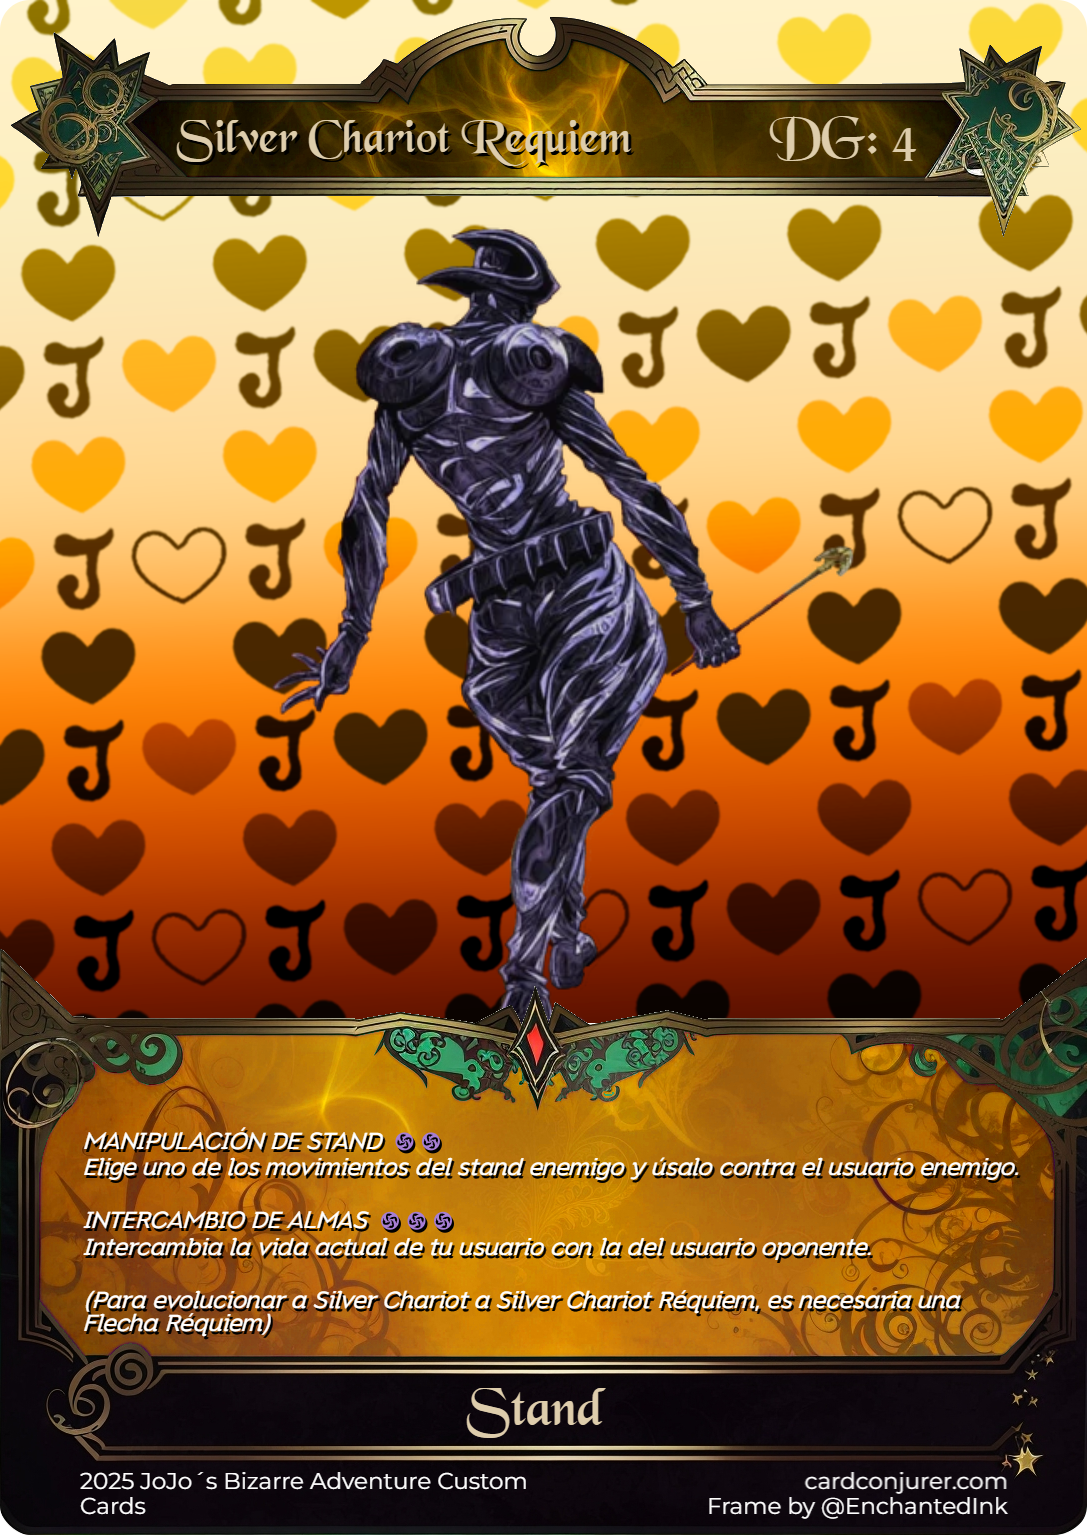
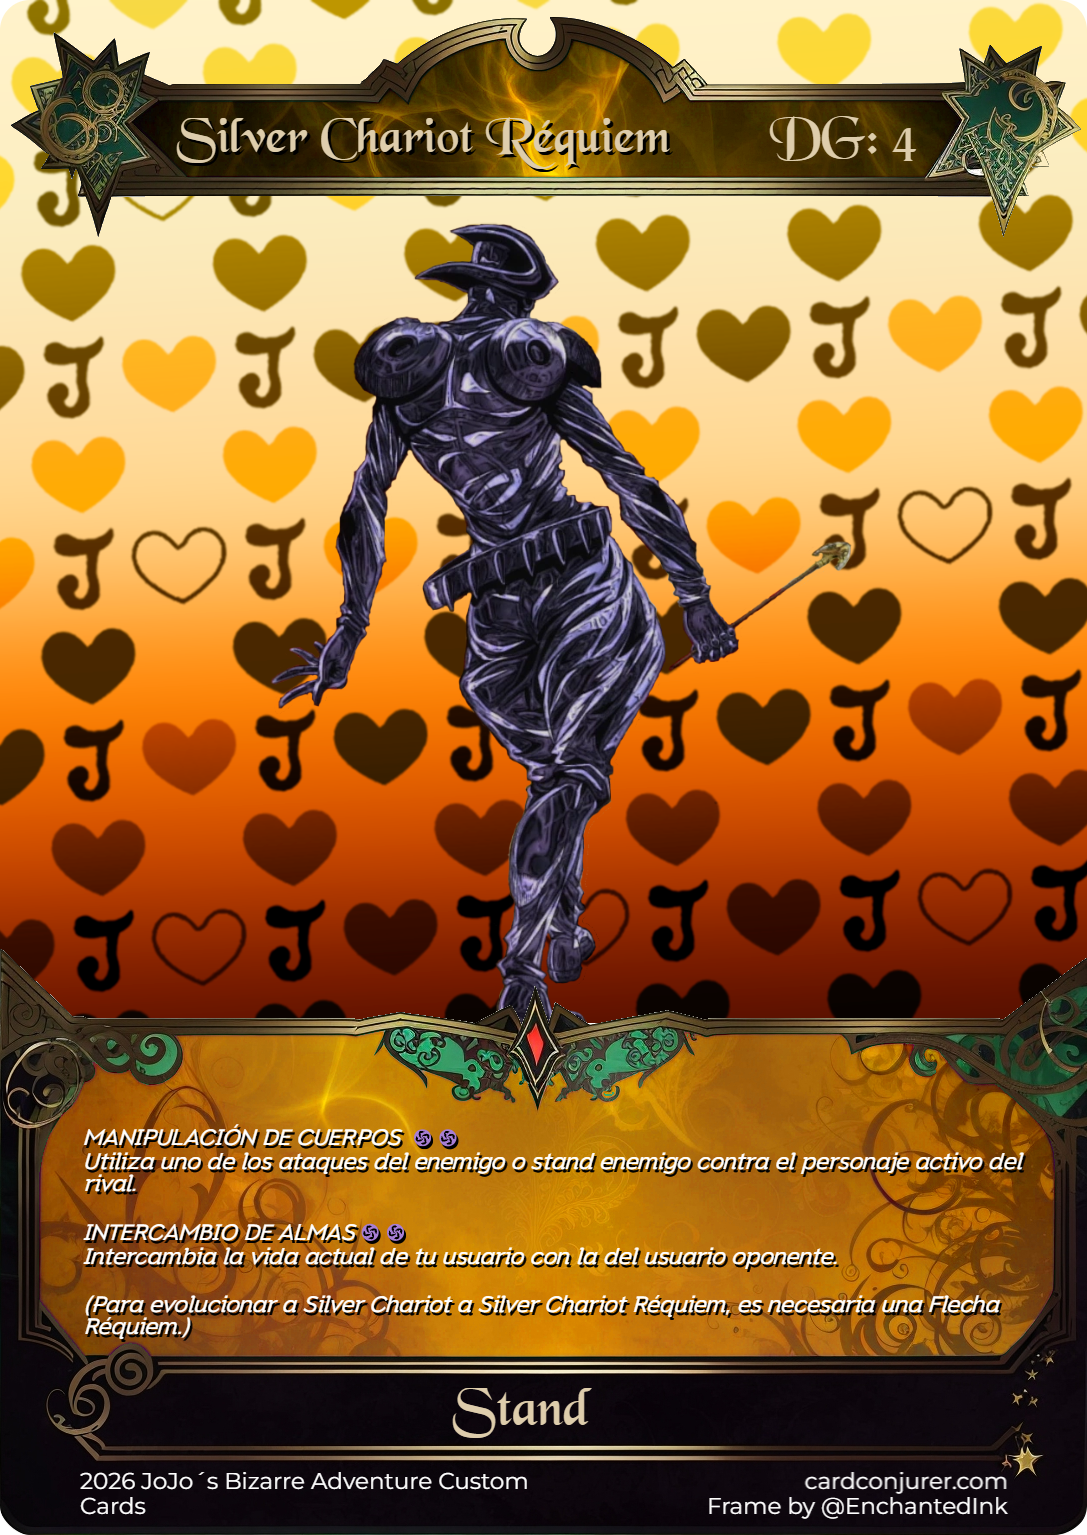
feat(card): rework Silver Chariot Requiem (Manipulación de Cuerpos, 2-Psychic Intercambio de Almas, new artwork)

diff --git a/src/engine/combat/combatResolver.ts b/src/engine/combat/combatResolver.ts
@@ -331,29 +331,27 @@ export function executeAttack(
     if (bonusInfo.consumedDireAfterimage) attacker.direAfterimageBonus = false;
   };
 
-  // Special non-damaging copy attack (Silver Chariot Requiem — Manipulación de Stand)
+  // Special non-damaging copy attack (Silver Chariot Réquiem — Manipulación de Cuerpos)
   if (attack.specialEffects?.some((e) => e.kind === 'COPY_ENEMY_STAND_ATTACK')) {
-    if (defender.attachedStand) {
-      const enemyStandAttacks = getEffectiveStandProfile(defender.attachedStand).attacks.filter(
-        (a) => !a.specialEffects?.some((se) => se.kind === 'COPY_ENEMY_STAND_ATTACK'),
-      );
-      if (enemyStandAttacks.length > 0) {
-        enqueuePrompt(state, {
-          kind: 'CHOOSE_ENEMY_STAND_ATTACK',
-          playerId,
-          targetPlayerId: opponentId,
-          availableAttackIds: enemyStandAttacks.map((a) => a.id),
-          sourceLabel: 'Manipulación de Stand',
-        });
-        state.promptContinuation = 'FINISH_COMBAT_ACTION';
-        return;
-      }
+    const copyableEnemyAttacks = getAvailableAttacks(defender)
+      .map((a) => a.attack)
+      .filter((a) => !a.specialEffects?.some((se) => se.kind === 'COPY_ENEMY_STAND_ATTACK'));
+    if (copyableEnemyAttacks.length > 0) {
+      enqueuePrompt(state, {
+        kind: 'CHOOSE_ENEMY_STAND_ATTACK',
+        playerId,
+        targetPlayerId: opponentId,
+        availableAttackIds: copyableEnemyAttacks.map((a) => a.id),
+        sourceLabel: 'Manipulación de Cuerpos',
+      });
+      state.promptContinuation = 'FINISH_COMBAT_ACTION';
+      return;
     }
     pushEvent(state, eventsOut, {
       type: 'ABILITY_TRIGGERED',
       playerId,
-      abilityName: 'Manipulación de Stand',
-      message: `${defenderProfile.name} no tiene un Stand con ataques copiables.`,
+      abilityName: 'Manipulación de Cuerpos',
+      message: `${defenderProfile.name} no tiene ataques copiables.`,
     });
     advanceAfterCombatAction(state, eventsOut, rng);
     return;
@@ -1401,12 +1399,12 @@ export function resolvePendingPrompt(
     }
     case 'CHOOSE_ENEMY_STAND_ATTACK': {
       const r = response as Extract<PromptResponsePayload, { kind: 'CHOOSE_ENEMY_STAND_ATTACK' }>;
-      const enemyStand = state.players[prompt.targetPlayerId].active?.attachedStand;
-      if (enemyStand) {
-        const atk = getEffectiveStandProfile(enemyStand).attacks.find((a) => a.id === r.attackId);
-        if (atk) {
-          executeAttack(state, eventsOut, playerId, atk.id, rng, {
-            attack: atk,
+      const enemyActive = state.players[prompt.targetPlayerId].active;
+      if (enemyActive) {
+        const entry = getAvailableAttacks(enemyActive).find((a) => a.attack.id === r.attackId);
+        if (entry) {
+          executeAttack(state, eventsOut, playerId, entry.attack.id, rng, {
+            attack: entry.attack,
             source: 'STAND',
           });
           return;

diff --git a/src/tests/engine/edgeCasesAndCatalog.test.ts b/src/tests/engine/edgeCasesAndCatalog.test.ts
@@ -69,7 +69,8 @@ describe('Asset Integrity, Additional Official Card Abilities & Multi-Match AI S
     expect(state.players.P1.active!.statuses.stunned).toBe(false);
   });
 
-  it('resolves Silver Chariot Requiem Manipulación de Stand copying an enemy Stand attack', () => {
+  it('resolves Silver Chariot Réquiem Manipulación de Cuerpos copying enemy Stand or non-Stand attacks & 2-Psychic Intercambio de Almas', () => {
+    // 1. Copies enemy Stand attack (Crazy Diamond Dorara)
     let state = buildControlledBattleState({
       p1ActiveId: 'char-jean-pierre-polnareff',
       p1ActiveStandId: 'stand-silver-chariot',
@@ -85,7 +86,7 @@ describe('Asset Integrity, Additional Official Card Abilities & Multi-Match AI S
     state = mustDispatch(state, {
       type: 'USE_ATTACK',
       playerId: 'P1',
-      attackId: 'atk-manipulacion-de-stand',
+      attackId: 'atk-manipulacion-de-cuerpos',
     });
 
     expect(state.pendingPrompt?.kind).toBe('CHOOSE_ENEMY_STAND_ATTACK');
@@ -96,6 +97,30 @@ describe('Asset Integrity, Additional Official Card Abilities & Multi-Match AI S
       response: { kind: 'CHOOSE_ENEMY_STAND_ATTACK', attackId: 'atk-dorara' },
     });
     expect(state.players.P2.active!.currentHp).toBe(50);
+
+    // 2. Also copies attacks from a non-Stand character (Jonathan Joestar) & can use Intercambio de Almas for 2 PSYCHIC!
+    let vsNonStand = buildControlledBattleState({
+      p1ActiveId: 'char-jean-pierre-polnareff',
+      p1ActiveStandId: 'stand-silver-chariot',
+      p1ActiveEnergies: ['PSYCHIC', 'PSYCHIC'],
+      p1Hand: ['evo-silver-chariot-requiem', 'item-flecha-requiem'],
+      p2ActiveId: 'char-jonathan-joestar', // 130 HP, no Stand
+      phase: 'PREPARATION',
+    });
+    vsNonStand = mustDispatch(vsNonStand, { type: 'EVOLVE_CARD', playerId: 'P1', handIndex: 0 });
+    vsNonStand = mustDispatch(vsNonStand, { type: 'ENTER_COMBAT_PHASE', playerId: 'P1' });
+    vsNonStand = mustDispatch(vsNonStand, {
+      type: 'USE_ATTACK',
+      playerId: 'P1',
+      attackId: 'atk-manipulacion-de-cuerpos',
+    });
+    expect(vsNonStand.pendingPrompt?.kind).toBe('CHOOSE_ENEMY_STAND_ATTACK');
+    vsNonStand = mustDispatch(vsNonStand, {
+      type: 'RESPOND_PROMPT',
+      playerId: 'P1',
+      response: { kind: 'CHOOSE_ENEMY_STAND_ATTACK', attackId: 'atk-sendo-hamon-overdrive' },
+    });
+    expect(vsNonStand.players.P2.active!.currentHp).toBe(60); // 130 - 70
   });
 
   it('resolves Jonathan Adiós Erina, Caesar Último Hamon, Joseph Nigerundayo, Santana Absorción & Prep draw abilities', () => {

diff --git a/src/engine/ai/tacticalAi.ts b/src/engine/ai/tacticalAi.ts
@@ -12,7 +12,6 @@ import {
   getAttackNominalMaxDamage,
   getAvailableAttacks,
   getEffectiveCharacterProfile,
-  getEffectiveStandProfile,
   getMaxEnergyAttachmentsThisTurn,
   hasElementalStatusImmunity,
 } from '../helpers/cardStats';
@@ -80,7 +79,12 @@ function expectedAttackScore(
     score += enemyActive.currentHp > selfActive.currentHp + 20 ? 120 : -20;
   }
   if (attack.specialEffects?.some((e) => e.kind === 'COPY_ENEMY_STAND_ATTACK')) {
-    score += enemyActive.attachedStand ? 75 : -30;
+    const copyable = getAvailableAttacks(enemyActive).filter(
+      (a) => !a.attack.specialEffects?.some((se) => se.kind === 'COPY_ENEMY_STAND_ATTACK'),
+    );
+    const bestCopiedDmg =
+      copyable.length > 0 ? Math.max(...copyable.map((a) => getAttackNominalMaxDamage(a.attack))) : 0;
+    score += copyable.length > 0 ? Math.max(65, bestCopiedDmg) : -30;
   }
   if (attack.specialEffects?.some((e) => e.kind === 'HEAL_SELF')) {
     const maxHp = computeEffectiveMaxHp(state, playerId, selfActive);
@@ -368,12 +372,12 @@ function buildPromptResponse(
       return { kind: 'CHOOSE_ENEMY_BENCH_TARGET', benchInstanceId: sorted[0]!.instanceId };
     }
     case 'CHOOSE_ENEMY_STAND_ATTACK': {
-      const enemyStand = state.players[prompt.targetPlayerId].active?.attachedStand;
+      const enemyActive = state.players[prompt.targetPlayerId].active;
       let bestId = prompt.availableAttackIds[0]!;
-      if (enemyStand) {
-        const attacks = getEffectiveStandProfile(enemyStand).attacks.filter((a) =>
-          prompt.availableAttackIds.includes(a.id),
-        );
+      if (enemyActive) {
+        const attacks = getAvailableAttacks(enemyActive)
+          .map((a) => a.attack)
+          .filter((a) => prompt.availableAttackIds.includes(a.id));
         attacks.sort((a, b) => getAttackNominalMaxDamage(b) - getAttackNominalMaxDamage(a));
         if (attacks[0]) bestId = attacks[0].id;
       }

diff --git a/src/data/cards/evolutions.ts b/src/data/cards/evolutions.ts
@@ -72,7 +72,7 @@ export const EVOLUTION_CARDS: EvolutionCard[] = [
   },
   {
     id: 'evo-silver-chariot-requiem',
-    name: 'Silver Chariot Requiem',
+    name: 'Silver Chariot Réquiem',
     type: 'EVOLUTION',
     part: 5,
     imageId: 'silver-chariot-requiem',
@@ -88,22 +88,22 @@ export const EVOLUTION_CARDS: EvolutionCard[] = [
       'Para evolucionar a Silver Chariot a Silver Chariot Réquiem, es necesaria una Flecha Réquiem.',
     attacks: [
       {
-        id: 'atk-manipulacion-de-stand',
-        name: 'Manipulación de Stand',
+        id: 'atk-manipulacion-de-cuerpos',
+        name: 'Manipulación de Cuerpos',
         energyCost: ['PSYCHIC', 'PSYCHIC'],
         baseDamage: 0,
         damageLabel: 'COPIA',
-        effectText: 'Elige uno de los movimientos del Stand enemigo y úsalo contra el usuario enemigo.',
+        effectText:
+          'Utiliza uno de los ataques del enemigo o stand enemigo contra el personaje activo del rival.',
         specialEffects: [{ kind: 'COPY_ENEMY_STAND_ATTACK' }],
       },
       {
         id: 'atk-intercambio-de-almas',
         name: 'Intercambio de Almas',
-        energyCost: ['PSYCHIC', 'PSYCHIC', 'PSYCHIC'],
+        energyCost: ['PSYCHIC', 'PSYCHIC'],
         baseDamage: 0,
         damageLabel: 'SWAP',
-        effectText:
-          'Intercambia la vida actual de tu usuario con la del usuario oponente (puede superar el HP máximo).',
+        effectText: 'Intercambia la vida actual de tu usuario con la del usuario oponente.',
         specialEffects: [{ kind: 'SOUL_SWAP_HP' }],
       },
     ],

diff --git a/src/ui/components/battlefield/PromptOverlay.tsx b/src/ui/components/battlefield/PromptOverlay.tsx
@@ -5,8 +5,8 @@ import { getCardById } from '../../../data/cardRegistry';
 import { CARD_BACK_PATTERN_URL } from '../../../services/assetResolver';
 import {
   computeEffectiveMaxHp,
+  getAvailableAttacks,
   getEffectiveCharacterProfile,
-  getEffectiveStandProfile,
 } from '../../../engine/helpers/cardStats';
 import { getStatusLabel } from '../../../engine/statuses/statusSystem';
 import type { PromptResponsePayload } from '../../../engine/types/actions';
@@ -408,13 +408,13 @@ export function PromptOverlay({ state, prompt, onRespond }: PromptOverlayProps) 
           </div>
         )}
 
-        {/* 7. CHOOSE ENEMY STAND ATTACK */}
+        {/* 7. CHOOSE ENEMY ATTACK (Manipulación de Cuerpos — Character or Stand attacks) */}
         {prompt.kind === 'CHOOSE_ENEMY_STAND_ATTACK' && (() => {
-          const enemyStand = state.players[prompt.targetPlayerId].active?.attachedStand;
-          const attacks = enemyStand
-            ? getEffectiveStandProfile(enemyStand).attacks.filter((a) =>
-                prompt.availableAttackIds.includes(a.id),
-              )
+          const enemyActive = state.players[prompt.targetPlayerId].active;
+          const attacks = enemyActive
+            ? getAvailableAttacks(enemyActive)
+                .map((a) => a.attack)
+                .filter((a) => prompt.availableAttackIds.includes(a.id))
             : [];
           return (
             <div className="space-y-4">
